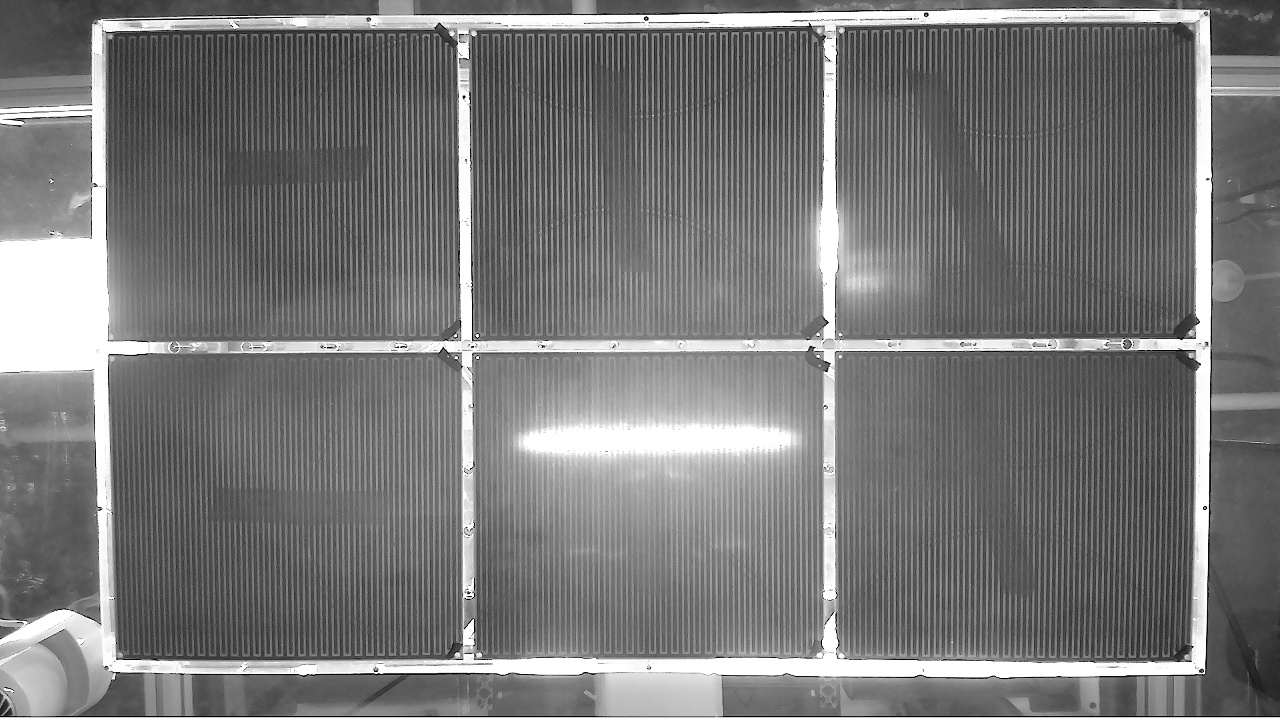
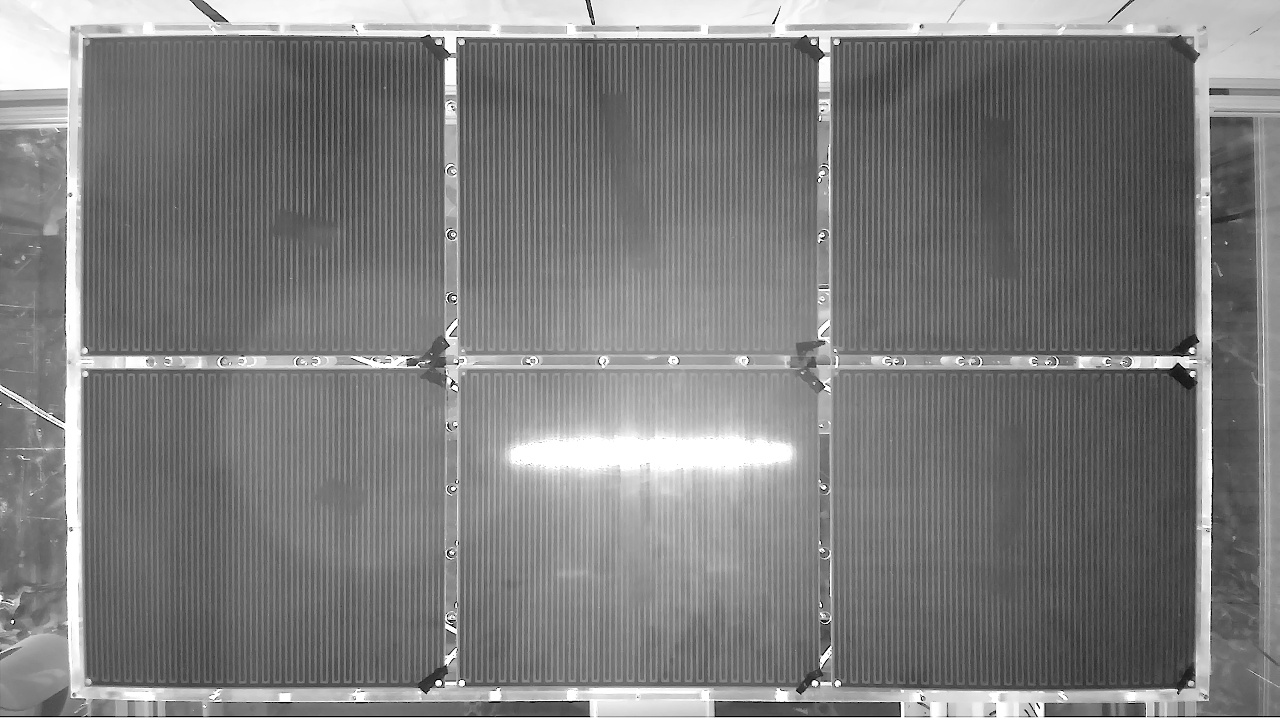
vision calibration update

diff --git a/service_fusing.py b/service_fusing.py
@@ -89,7 +89,7 @@ class fusing_pi(object):
 
 		try:
 			###camera connect
-			url='rr+tcp://'+self.fusing_laptop+':59823?service=camera'
+			url='rr+tcp://'+self.robosewclient+':59823?service=camera'
 			#Startup, connect, and pull out the camera from the objref    
 			self.cam_sub=RRN.SubscribeService(url)
 			self.cam_sub.ClientConnectFailed += self.connect_failed
@@ -104,7 +104,7 @@ class fusing_pi(object):
 		#tool
 		try:
 			###sensor_state [IDEC1,IDEC2,IDEC3,IDEC4,LOCK1,LOCK]
-			self.tool_sub=RRN.SubscribeService('rr+tcp://'+self.fusing_laptop+':22222?service=tool')
+			self.tool_sub=RRN.SubscribeService('rr+tcp://'+self.robosewclient+':22222?service=tool')
 			self.tool_state = self.tool_sub.SubscribeWire("tool_state")
 			self.tool_sub.ClientConnectFailed += self.connect_failed
 			self.tool=self.tool_sub.GetDefaultClientWait(1)
@@ -117,7 +117,7 @@ class fusing_pi(object):
 			pass
 
 		try:
-			self.robot_sub=RRN.SubscribeService('rr+tcp://'+self.fusing_laptop+':58651?service=robot')
+			self.robot_sub=RRN.SubscribeService('rr+tcp://'+self.robosewclient+':58651?service=robot')
 			self.robot_sub.ClientConnectFailed += self.connect_failed
 			self.state_w = self.robot_sub.SubscribeWire("robot_state")
 			self.cmd_w=self.robot_sub.SubscribeWire('position_command')
@@ -633,7 +633,7 @@ class fusing_pi(object):
 		# 	return [0,0],999
 		print('min_error: ', min_error)
 		if 'CLLR' in self.current_ply_fabric_type.fabric_name:
-			if not interlining and min_error>=2599999999:
+			if not interlining and min_error>=2499999999:
 				self.trigger_error('Vision Error','NO FABRIC FOUND')
 				self.clear_charge()
 				return [0,0],999
@@ -729,8 +729,8 @@ class fusing_pi(object):
 
 	def execute(self, stacks):
 		for cur_stack in range(stacks):
-			self.current_ply_fabric_type.fabric_name='PD19_016C-FR-LFT-UP HICKEY 56'
-			self.current_interlining_fabric_type.fabric_name='PD19_016C-FR-LFT-UP-INT HICKEY 56'
+			# self.current_ply_fabric_type.fabric_name='PD19_016C-FR-LFT-UP HICKEY 56'
+			# self.current_interlining_fabric_type.fabric_name='PD19_016C-FR-LFT-UP-INT HICKEY 56'
 			try:
 				
 				self.fabric_template=read_template('client_yaml/templates/'+self.current_ply_fabric_type.fabric_name+'.jpg',self.fabric_dimension[self.current_ply_fabric_type.fabric_name],self.ppu)
@@ -766,7 +766,7 @@ class fusing_pi(object):
 				# offset_angle=0.
 				######no-vision block end
 				# self.place(self.place_position-offset_p,offset_angle)
-				self.place_slide(self.place_position-offset_p-np.array([0.003,0,0]),offset_angle)
+				self.place_slide(self.place_position-offset_p,offset_angle)
 
 				# if cur_stack==stacks-1:
 				##home

diff --git a/humidity_tests.py b/humidity_tests.py
@@ -89,7 +89,7 @@ class fusing_pi(object):
 
 		try:
 			###camera connect
-			url='rr+tcp://'+self.fusing_laptop+':59823?service=camera'
+			url='rr+tcp://'+self.robosewclient+':59823?service=camera'
 			#Startup, connect, and pull out the camera from the objref    
 			self.cam_sub=RRN.SubscribeService(url)
 			self.cam_sub.ClientConnectFailed += self.connect_failed
@@ -104,7 +104,7 @@ class fusing_pi(object):
 		#tool
 		try:
 			###sensor_state [IDEC1,IDEC2,IDEC3,IDEC4,LOCK1,LOCK]
-			self.tool_sub=RRN.SubscribeService('rr+tcp://'+self.fusing_laptop+':22222?service=tool')
+			self.tool_sub=RRN.SubscribeService('rr+tcp://'+self.robosewclient+':22222?service=tool')
 			self.tool_state = self.tool_sub.SubscribeWire("tool_state")
 			self.tool_sub.ClientConnectFailed += self.connect_failed
 			self.tool=self.tool_sub.GetDefaultClientWait(1)
@@ -117,7 +117,7 @@ class fusing_pi(object):
 			pass
 
 		try:
-			self.robot_sub=RRN.SubscribeService('rr+tcp://'+self.fusing_laptop+':58651?service=robot')
+			self.robot_sub=RRN.SubscribeService('rr+tcp://'+self.robosewclient+':58651?service=robot')
 			self.robot_sub.ClientConnectFailed += self.connect_failed
 			self.state_w = self.robot_sub.SubscribeWire("robot_state")
 			self.cmd_w=self.robot_sub.SubscribeWire('position_command')
@@ -743,14 +743,14 @@ class fusing_pi(object):
 				self.place(self.place_position-offset_p,offset_angle)
 
 				
-				self.stack_height2=np.array([0,0,(stacks-cur_stack)*0.00045])
-				self.pick(self.bin2_p+self.stack_height2,self.bin2_R,v=5.)
+				# self.stack_height2=np.array([0,0,(stacks-cur_stack)*0.00045])
+				# self.pick(self.bin2_p+self.stack_height2,self.bin2_R,v=5.)
 
-				######no-vision block
-				offset_p=np.array([0,0,0])
-				offset_angle=0.
-				######no-vision block end
-				self.place(self.place_position-offset_p,offset_angle)
+				# ######no-vision block
+				# offset_p=np.array([0,0,0])
+				# offset_angle=0.
+				# ######no-vision block end
+				# self.place(self.place_position-offset_p,offset_angle)
 
 
 				##home

diff --git a/calibration/plate_calib.py b/calibration/plate_calib.py
@@ -8,7 +8,7 @@ robot_name='abb'
 sys.path.append('../toolbox/')
 from vel_emulate_sub import EmulatedVelocityControl
 from general_robotics_toolbox import *
-from cv2 import aruco
+# from cv2 import aruco
 from temp_match import bold_edge
 from abb_def import *
 
@@ -66,7 +66,7 @@ def PolyArea2D(pts):
 ###determine pixels/unit distance, ROI
 def preprocess(image):
 	# tag_centroids, ids = aruco_process(image)
-	tag_centroids=np.array([[[ 97,25]], [[105,670]],[[1201,16]],[[1204,673]]])
+	tag_centroids=np.array([[[ 70,25]], [[70,697]],[[1206,25]],[[1208,700]]])
 	ROI=np.array([[np.min(tag_centroids[:,:,1]),np.max(tag_centroids[:,:,1])],[np.min(tag_centroids[:,:,0]),np.max(tag_centroids[:,:,0])]]).astype(int)		#[[r1,r2],[c1,c2]]
 	
 	vertices=np.squeeze(tag_centroids,axis=1)

diff --git a/individual_client/gui_robot_elec.py b/individual_client/gui_robot_elec.py
@@ -36,7 +36,7 @@ robot_name=args.robot_name
 
 #rpi relay
 try:
-	tool_sub=RRN.SubscribeService('rr+tcp://'+fusing_laptop+':22222?service=tool')
+	tool_sub=RRN.SubscribeService('rr+tcp://'+robosewclient+':22222?service=tool')
 	tool=tool_sub.GetDefaultClientWait(1)
 except:
 	print('rpi gripper service not available')
@@ -51,7 +51,7 @@ except:
 	pass
 
 #connect robot services
-url='rr+tcp://'+fusing_laptop+':58651?service=robot'
+url='rr+tcp://'+robosewclient+':58651?service=robot'
 robot_sub=RRN.SubscribeService(url)
 robot=robot_sub.GetDefaultClientWait(1)
 state_w = robot_sub.SubscribeWire("robot_state")

diff --git a/client_fusing.py b/client_fusing.py
@@ -38,7 +38,7 @@ robosewclient='192.168.51.61'
 pi_fuse='192.168.51.25'
 my_laptop='192.168.51.181'
 
-url='rr+tcp://'+fusing_laptop+':12180/?service=fusing_service'
+url='rr+tcp://'+robosewclient+':12180/?service=fusing_service'
 fusing_sub=RRN.SubscribeService(url)
 fusing_sub.ClientConnectFailed += connect_failed
 

diff --git a/individual_client/print_joint.py b/individual_client/print_joint.py
@@ -35,7 +35,7 @@ my_laptop='192.168.51.181'
 # 	sys.exit()
 
 ####################Start Service and robot setup
-url='rr+tcp://'+fusing_laptop+':58651?service=robot'
+url='rr+tcp://'+robosewclient+':58651?service=robot'
 
 
 robot_sub=RRN.SubscribeService(url)

diff --git a/camera/client_streaming.py b/camera/client_streaming.py
@@ -25,7 +25,7 @@ current_frame=None
 
 def main():
 
-    url='rr+tcp://'+fusing_laptop+':59823?service=camera'
+    url='rr+tcp://'+robosewclient+':59823?service=camera'
     if (len(sys.argv)>=2):
         url=sys.argv[1]
 

diff --git a/service_fusing_minimal.py b/service_fusing_minimal.py
@@ -48,6 +48,7 @@ class fusing_pi(object):
 		while p.Available:
 			try:
 				dat=p.ReceivePacket()
+				print('execute received')
 				self.current_operation_count=0
 				self.execute(dat)
 			except:
